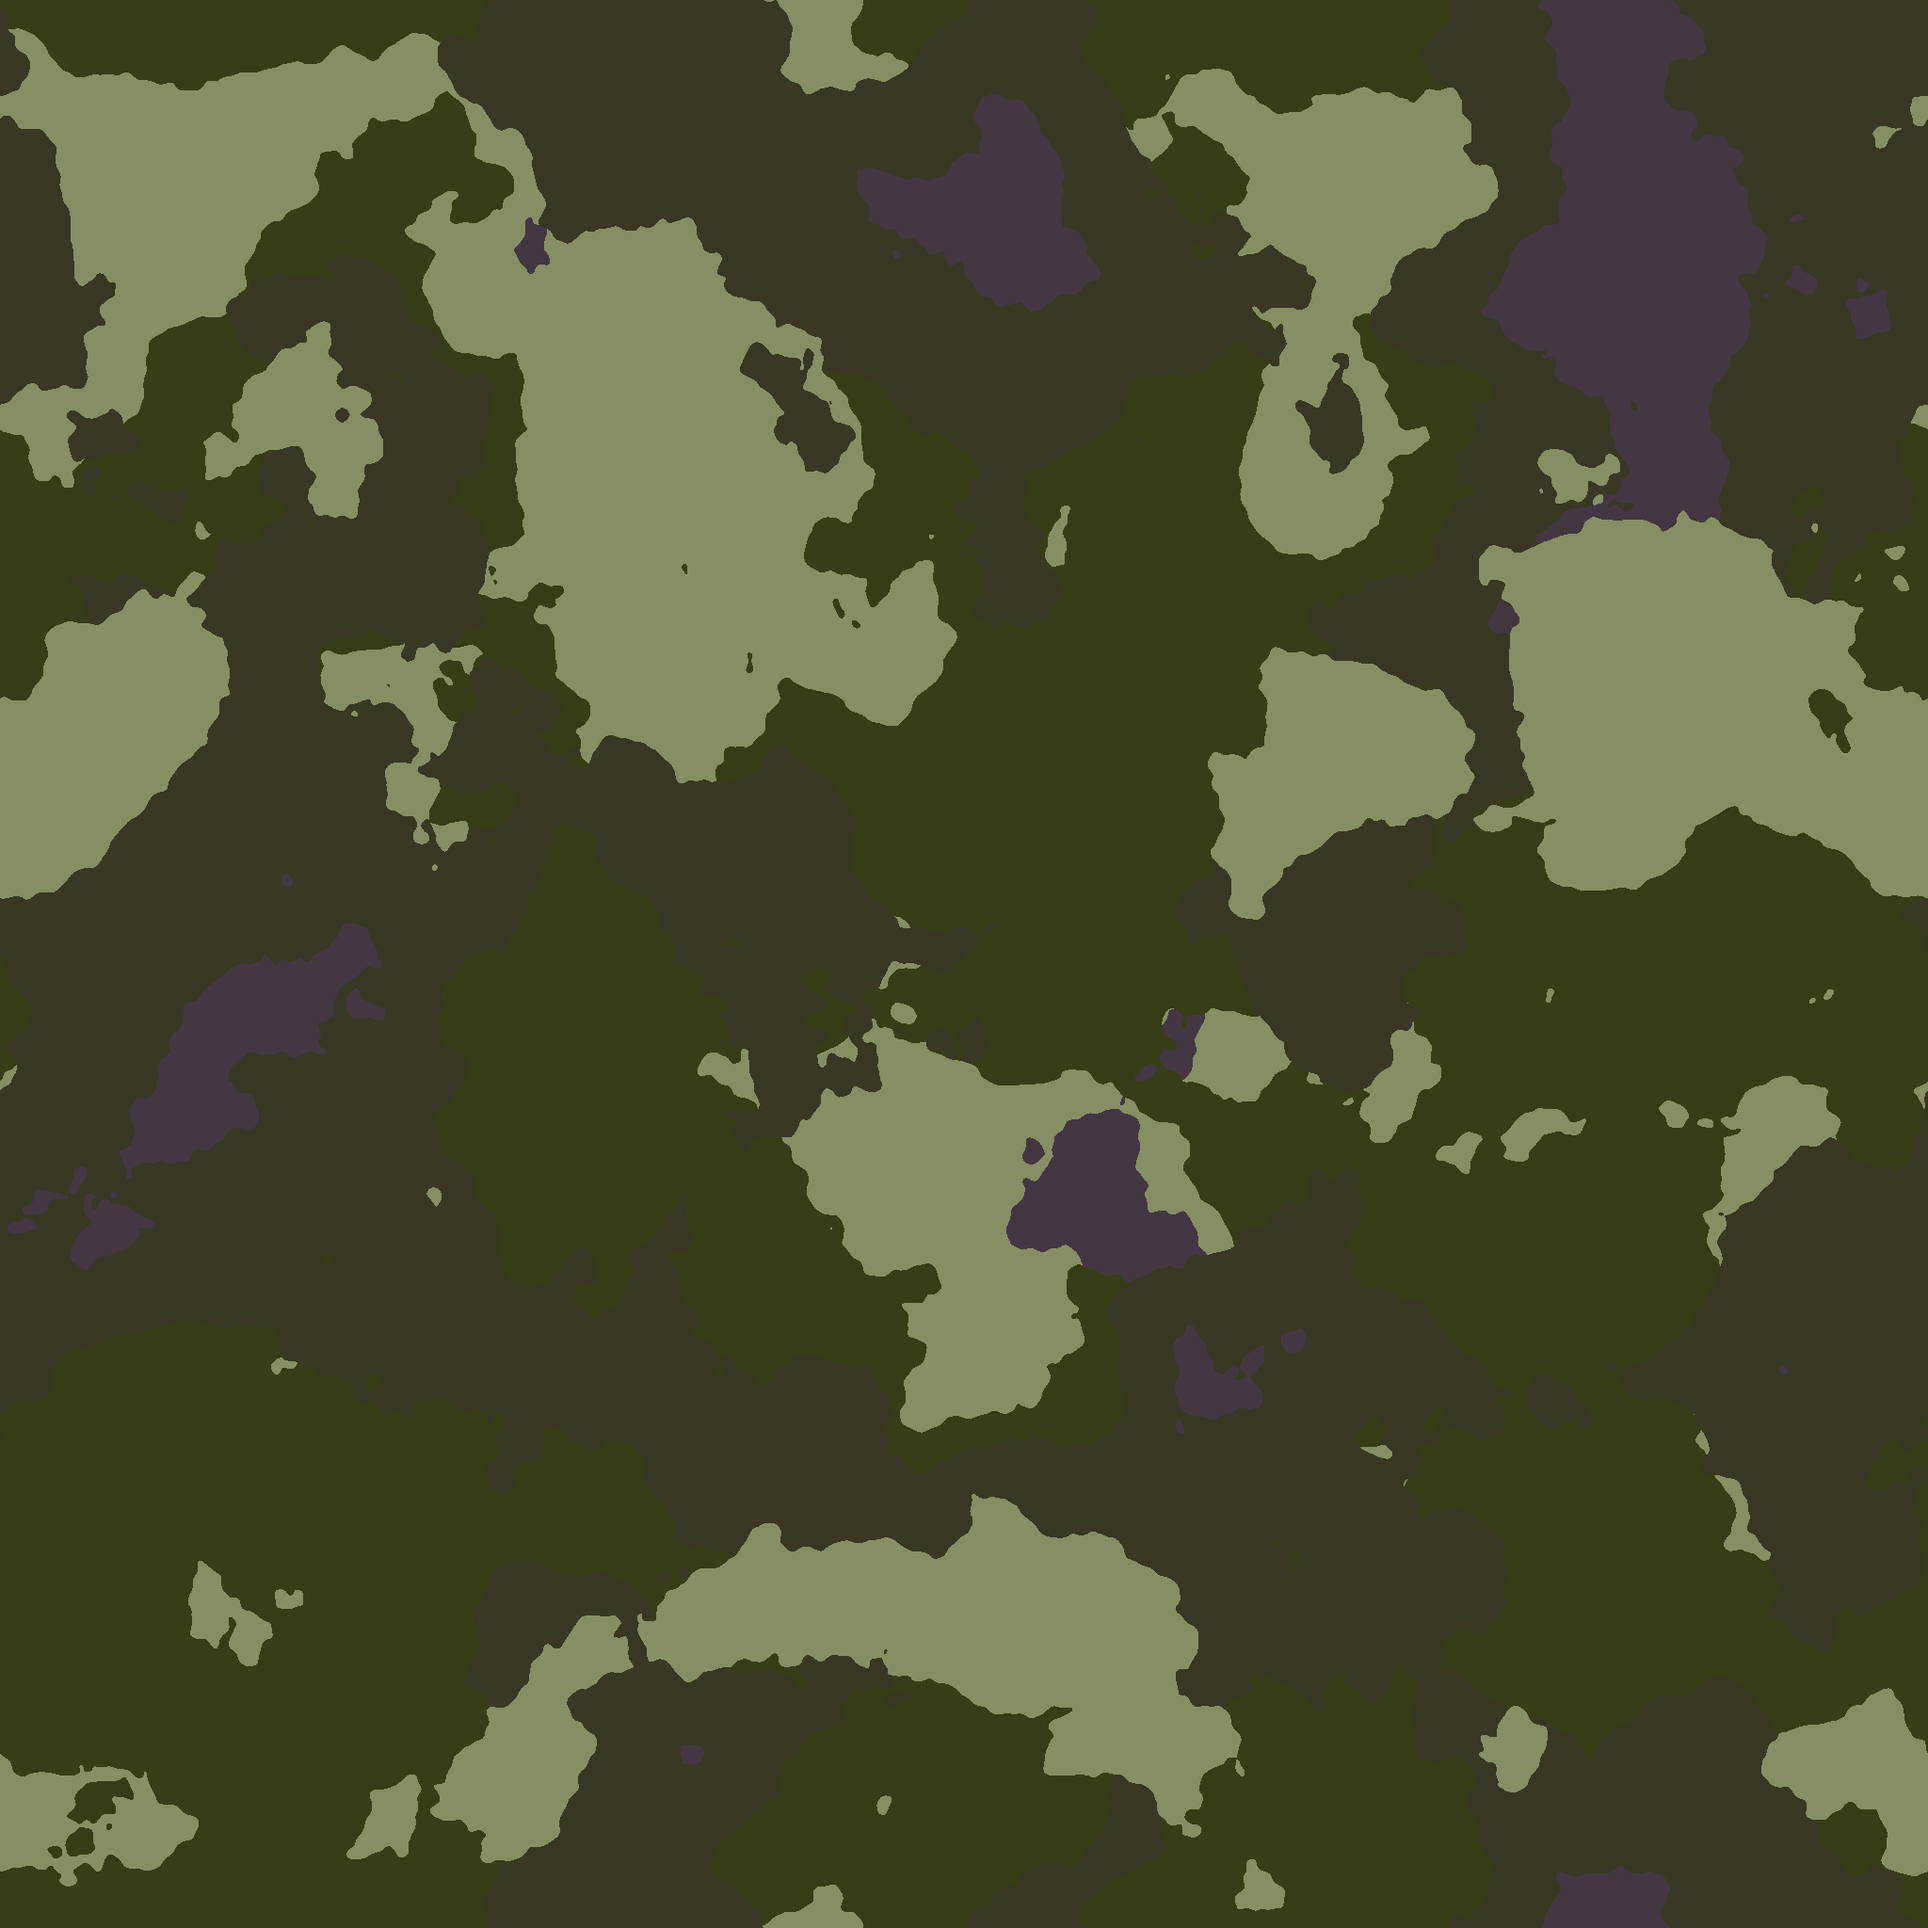
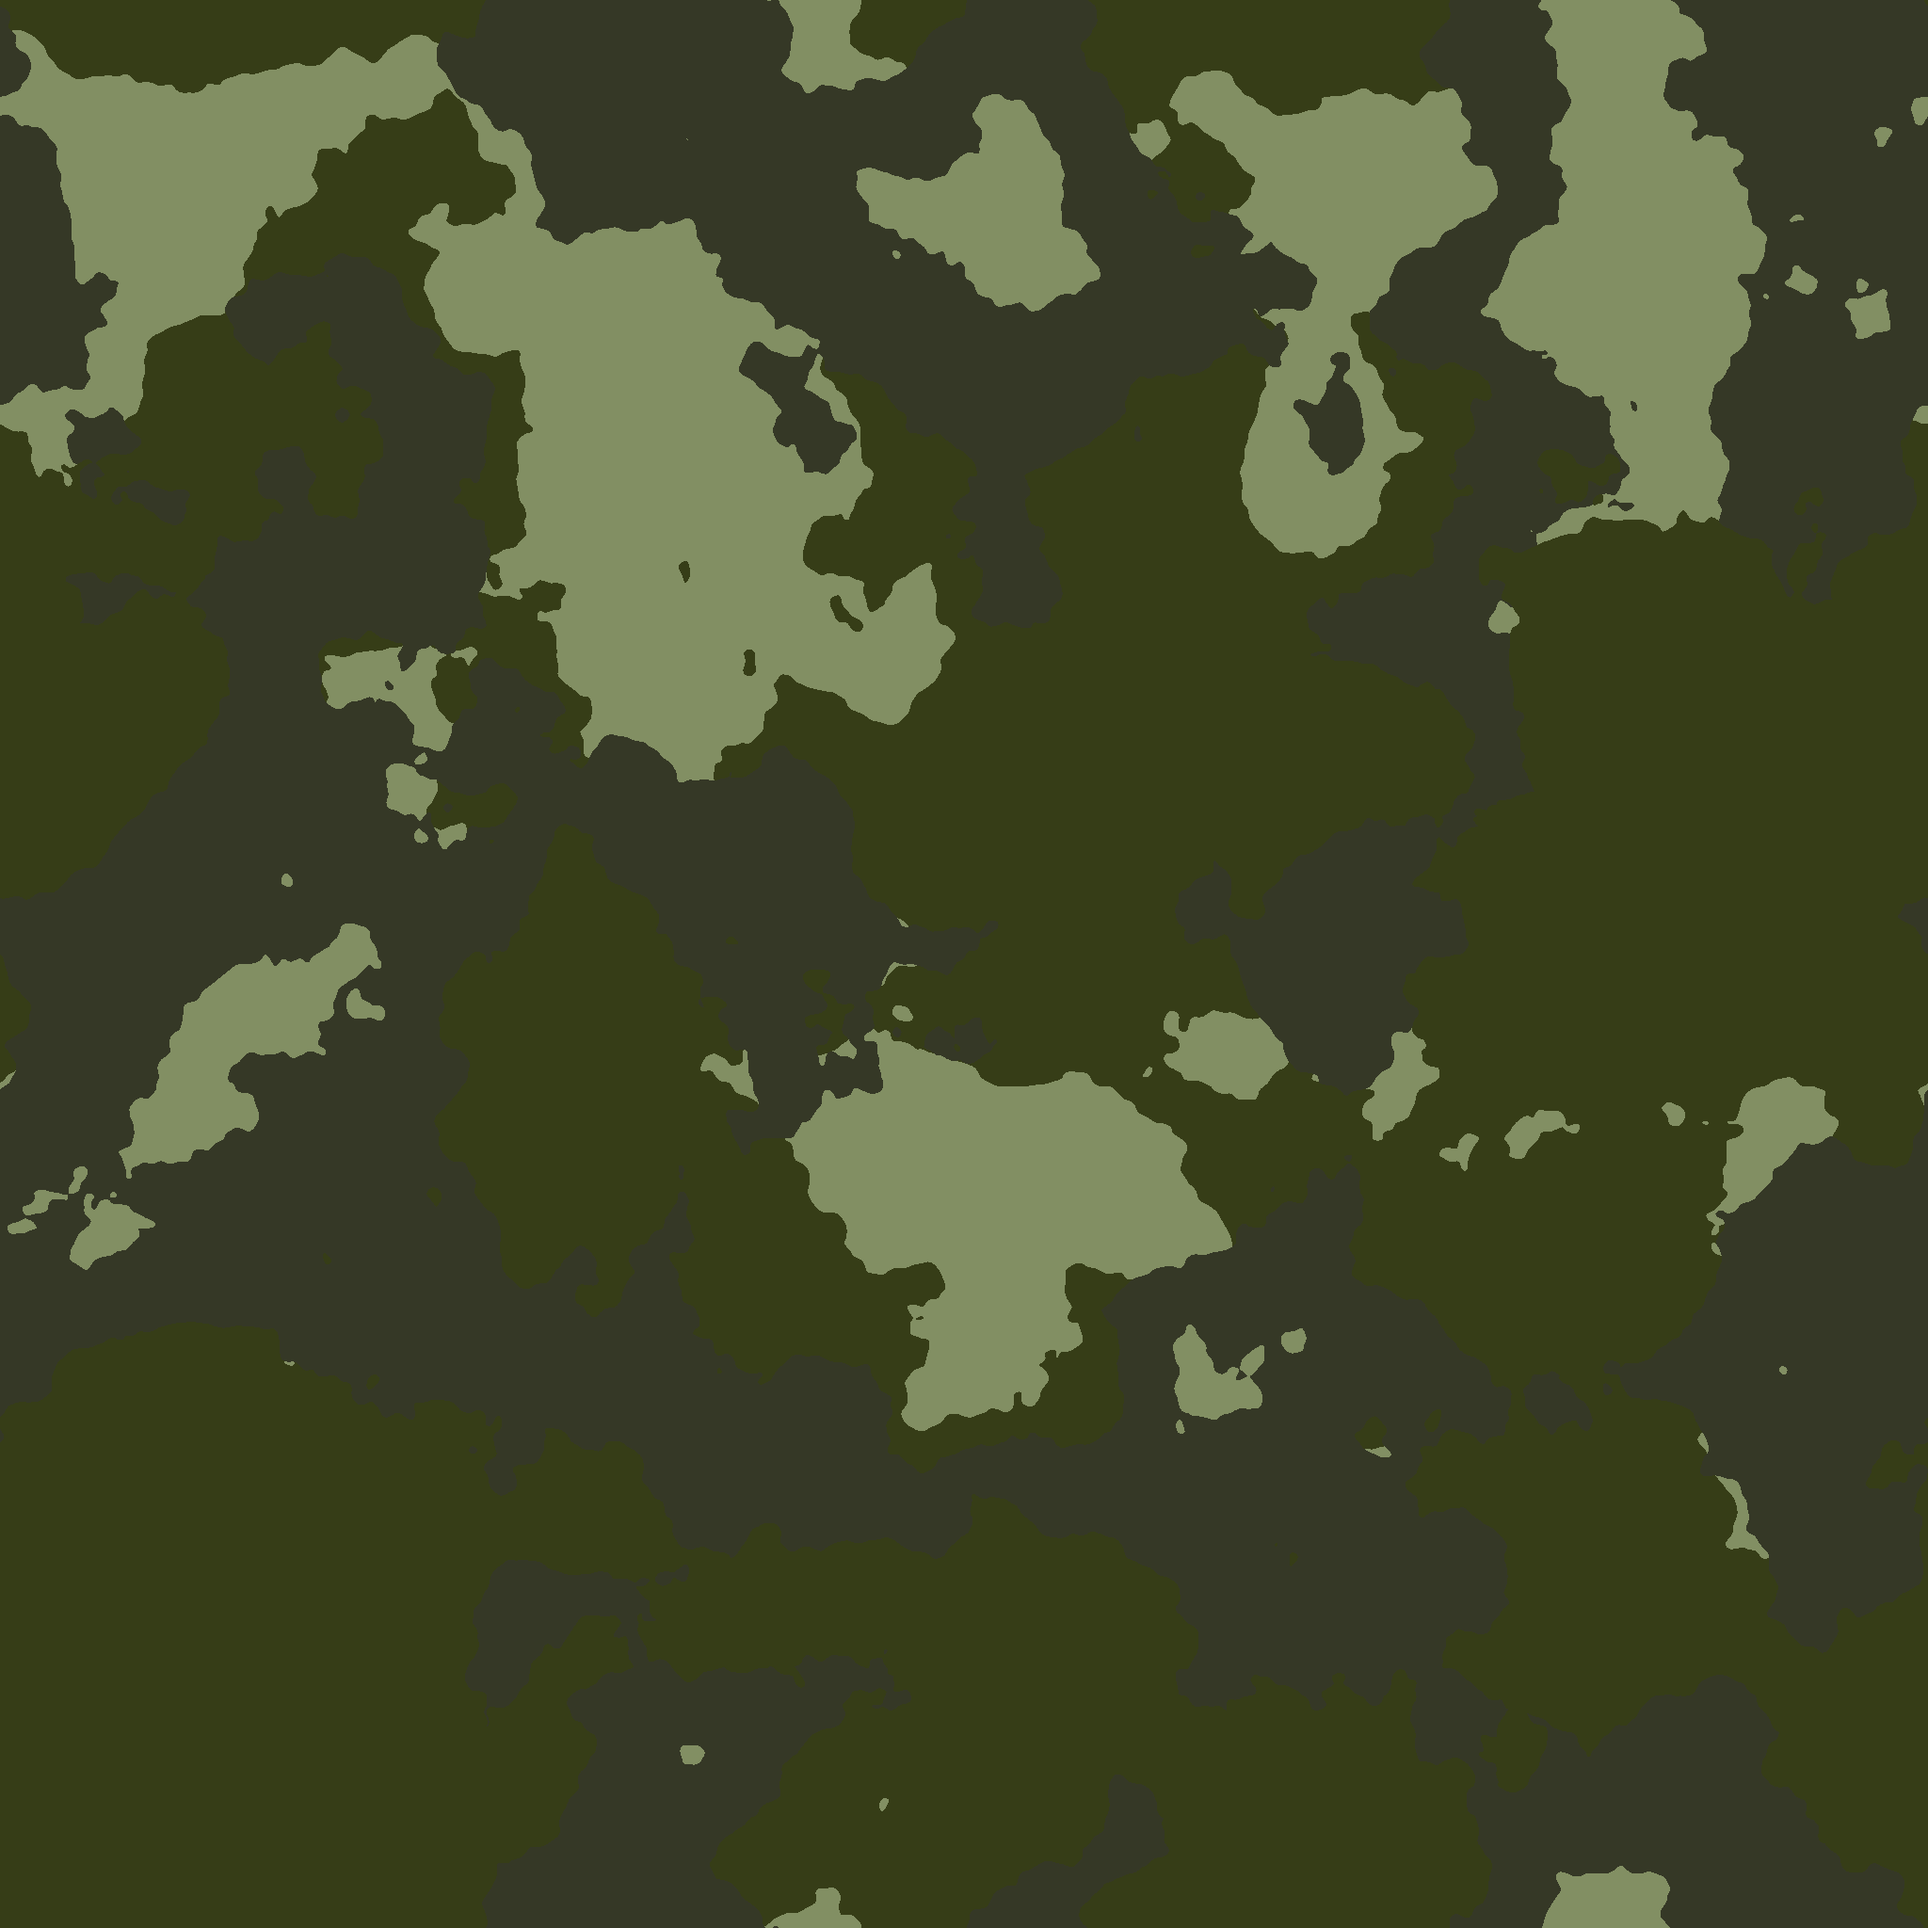
Forest generation

diff --git a/objectmaker.py b/objectmaker.py
@@ -287,7 +287,7 @@ class camo:
 
 if __name__ == '__main__':
     snow = camo("data/forest.jpg")
-    snow.extract_colors(n=4, colspace="HSV", show=True, save = True)
+    snow.extract_colors(n=3, colspace="HSV", show=True, load = True)
 
     # snow.make_perlin(octaves=[16,8],ms=0.05, colspace="HSV")
 
